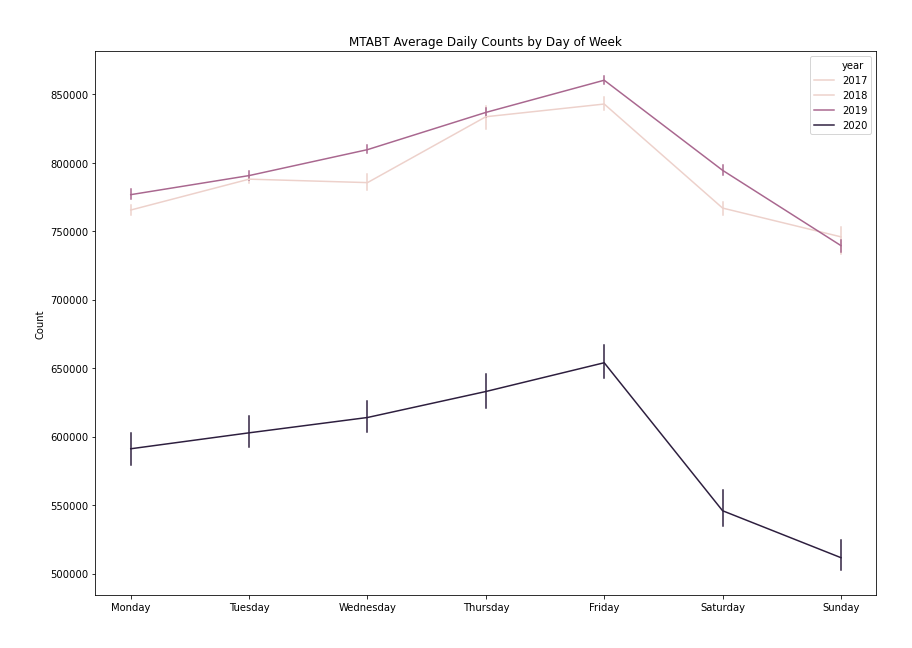
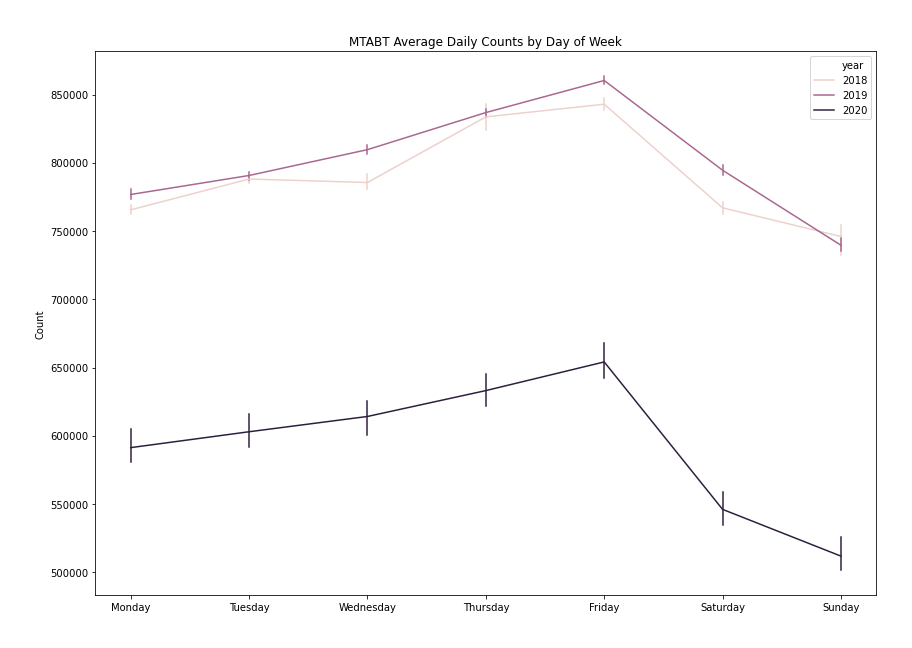
entered feature engineering on readme

diff --git a/README.md b/README.md
@@ -40,14 +40,22 @@ For this project, I have done
 4. Join Triboro Bronx and Triboro Manhattan counts to 'Triboro'
 
 
-### *Summing EZ-Pass/Cash and Hourly to Daily*
-Since I am interested in the forecast of daily counts per bridge, it makes sense to add the ez-pass and cash counts and sum hourly instances by days.
+## Feature Engineering
+1. Holidays - Holidays can be grabbed from holidays package
+2. Datetime Extraction - From datetime, extracting dayofweek, weekend, month, etc.
+3. 2020 Events - https://www.investopedia.com/historical-timeline-of-covid-19-in-new-york-city-5071986
+    - March 12 - Events with more than 500 people cancelled
+    - March 22 - NYS Pause Program begins, all non-essential workers must stay home
+    - April 16 - Governor Cuomo extendes the stay-at-home order and school closures to May 15
+    - May 15 - Governor Cuomo extends PAUSE to May 28
+    - June 8 - NYC begins Phase 1 opening
+    - June 22 - NYC begins Phase 2 opening
+    - July 7 - NYC begins Phase 3 opening
+    - July 19 - NYC begins Phase 4 opening
+4. Average Daily Temperature - https://w2.weather.gov/climate/xmacis.php?wfo=okx
+    - Weather data was calculated from 2010 - 2020. I then fit just the average temperature values with a vanilla FBProphet and forecasted to 2021. I will be using the y_hat values returned from FBProphet for 2018-2021.
 
-### *Use data collected from 2018 and on*
-On 2017, NYC finishes installing cash-less tolls. I decided to use the data from 2018 and on because pre-2017, the data was collected in a different way. The article of cashless tolling completion can be found [here](https://www.governor.ny.gov/news/governor-cuomo-announces-completion-cashless-tolling-all-mta-bridges-and-tunnels-three-months).
 
-### *Join Triboro Bronx and Triboro Manhattan*
-The Triboro Bridge consists of three bridges that connect Manhattan, Bronx, and Queens. For this project, I have decided to treat these three bridges as one.
 
 # Exploratory Visualizations
 1. Average Daily Counts by Month
@@ -103,7 +111,7 @@ With LGBM, I have forecasted from 09-27-20 to 03-31-21. On 01-01-21, I have assu
 
 To translate these counts into dollars and into something more applicable, I will multiple each count to $6. The calculated values are just estimated but the scale remains the same. <br>
 
-2019 Q1 Actual Revenue: $403,945,428 <br>
+2019 Q1 Estimated Revenue: $403,945,428 <br>
 2021 Q1 Purple Predicted Revenue: $374,626,254 <br>
 2021 Q1 Teal Predicted Revenue: $359,503,302 <br>
 2021 Q1 Red Predicted Revenue: $232,564,344 <br>
